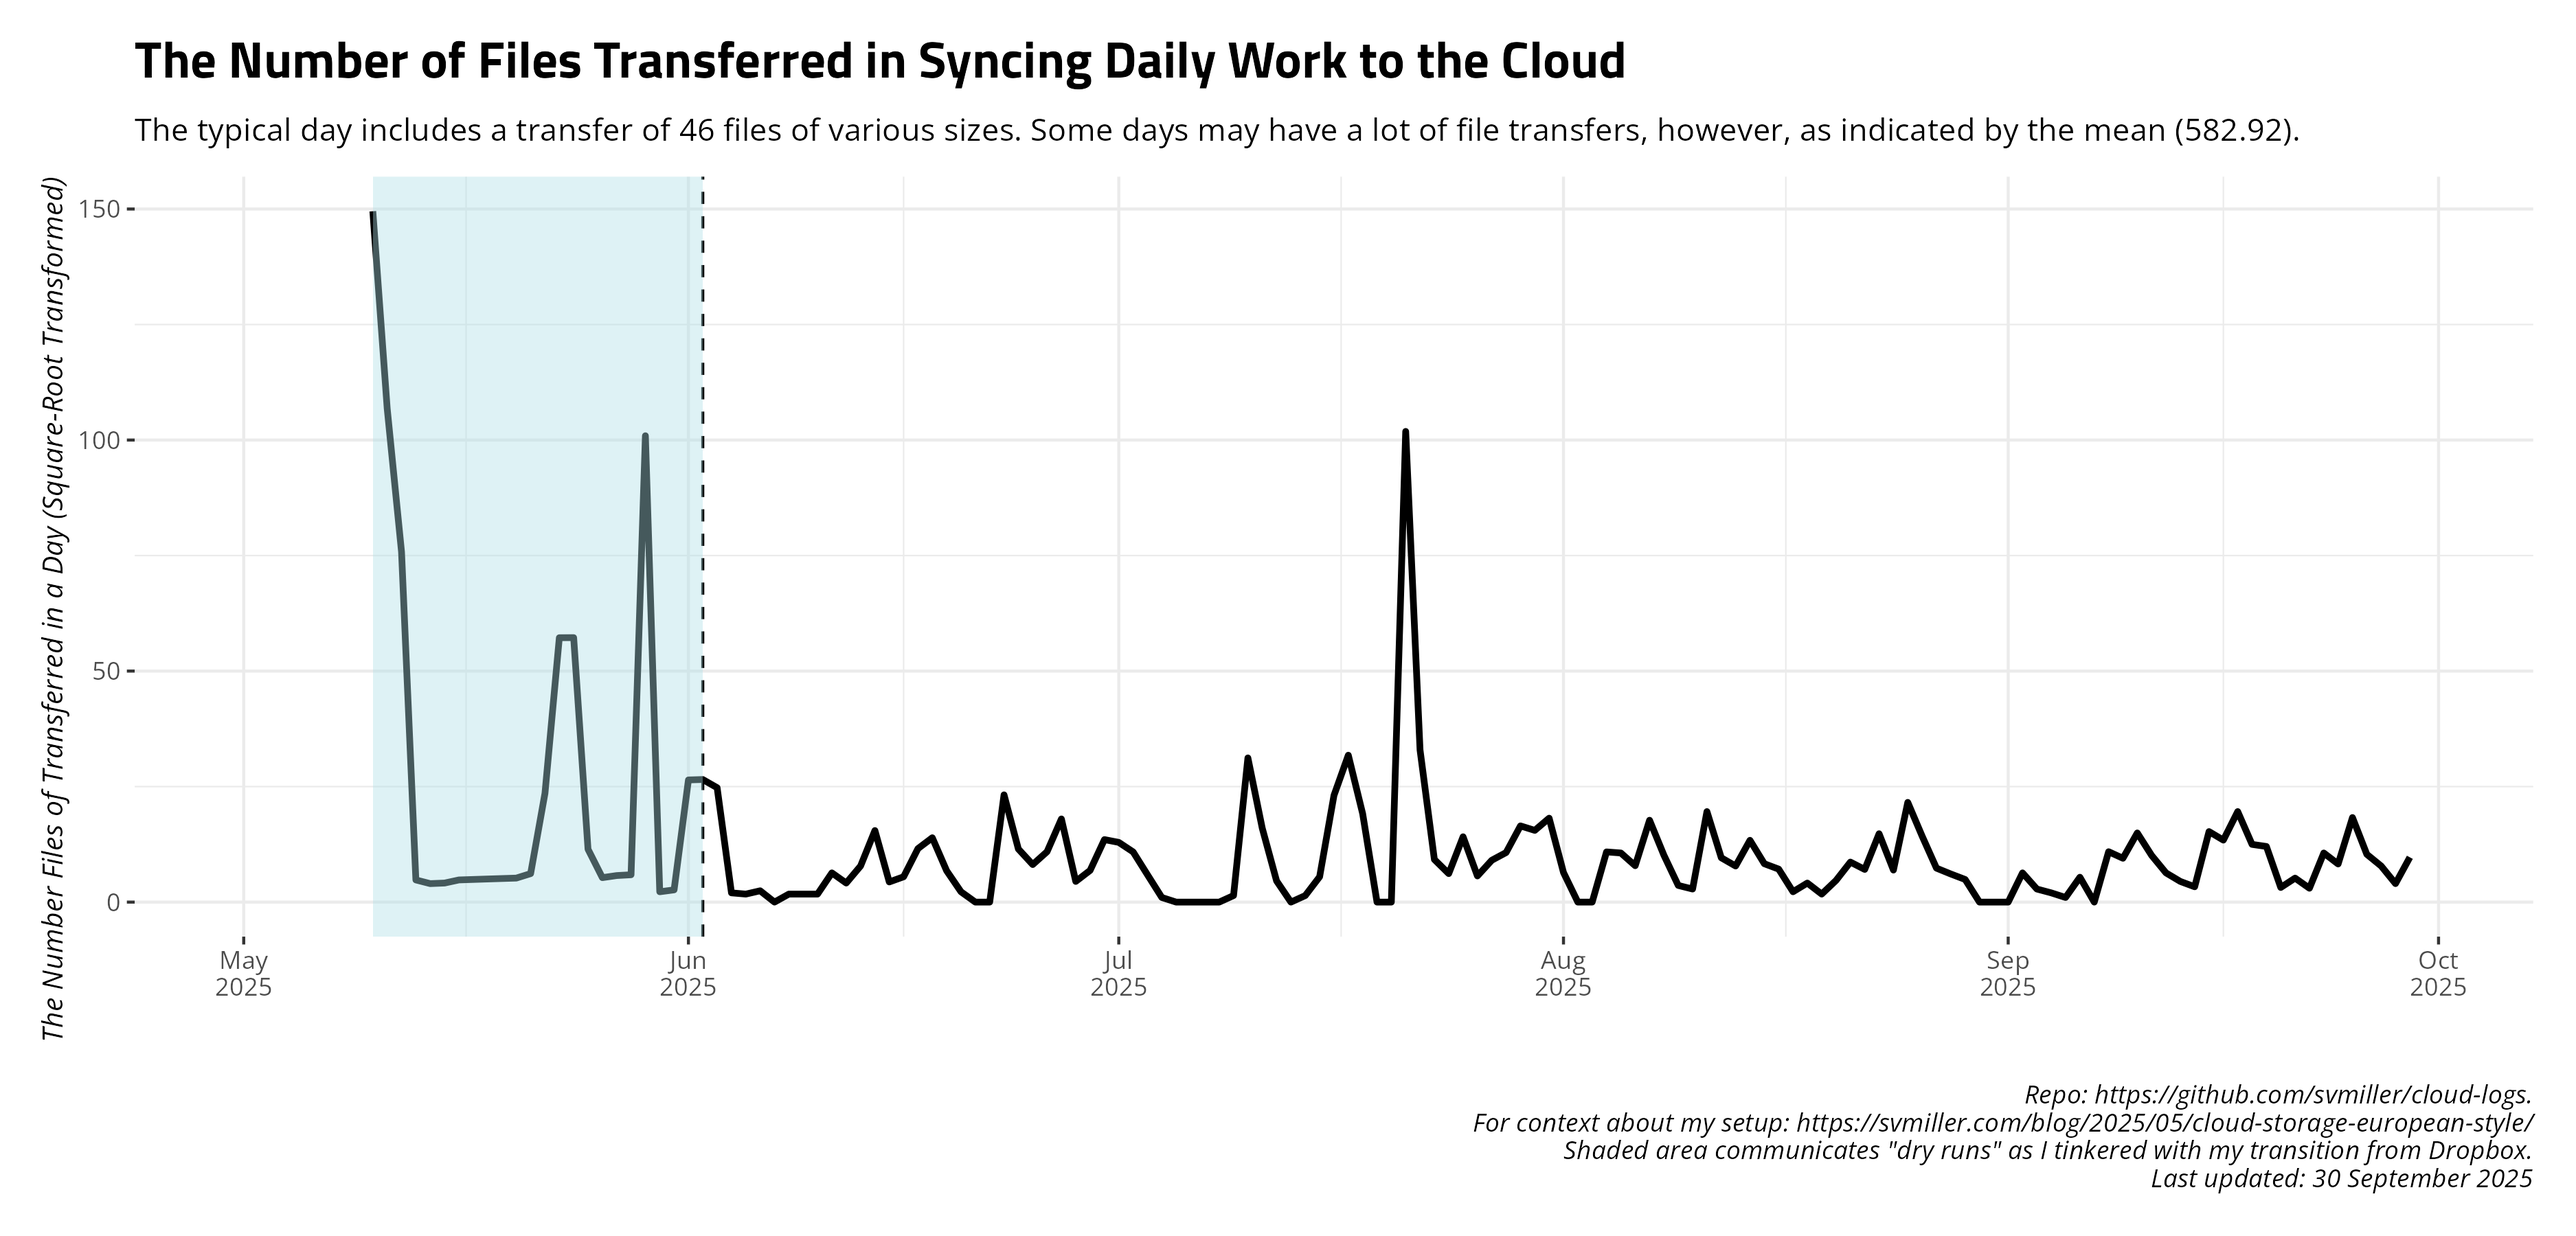
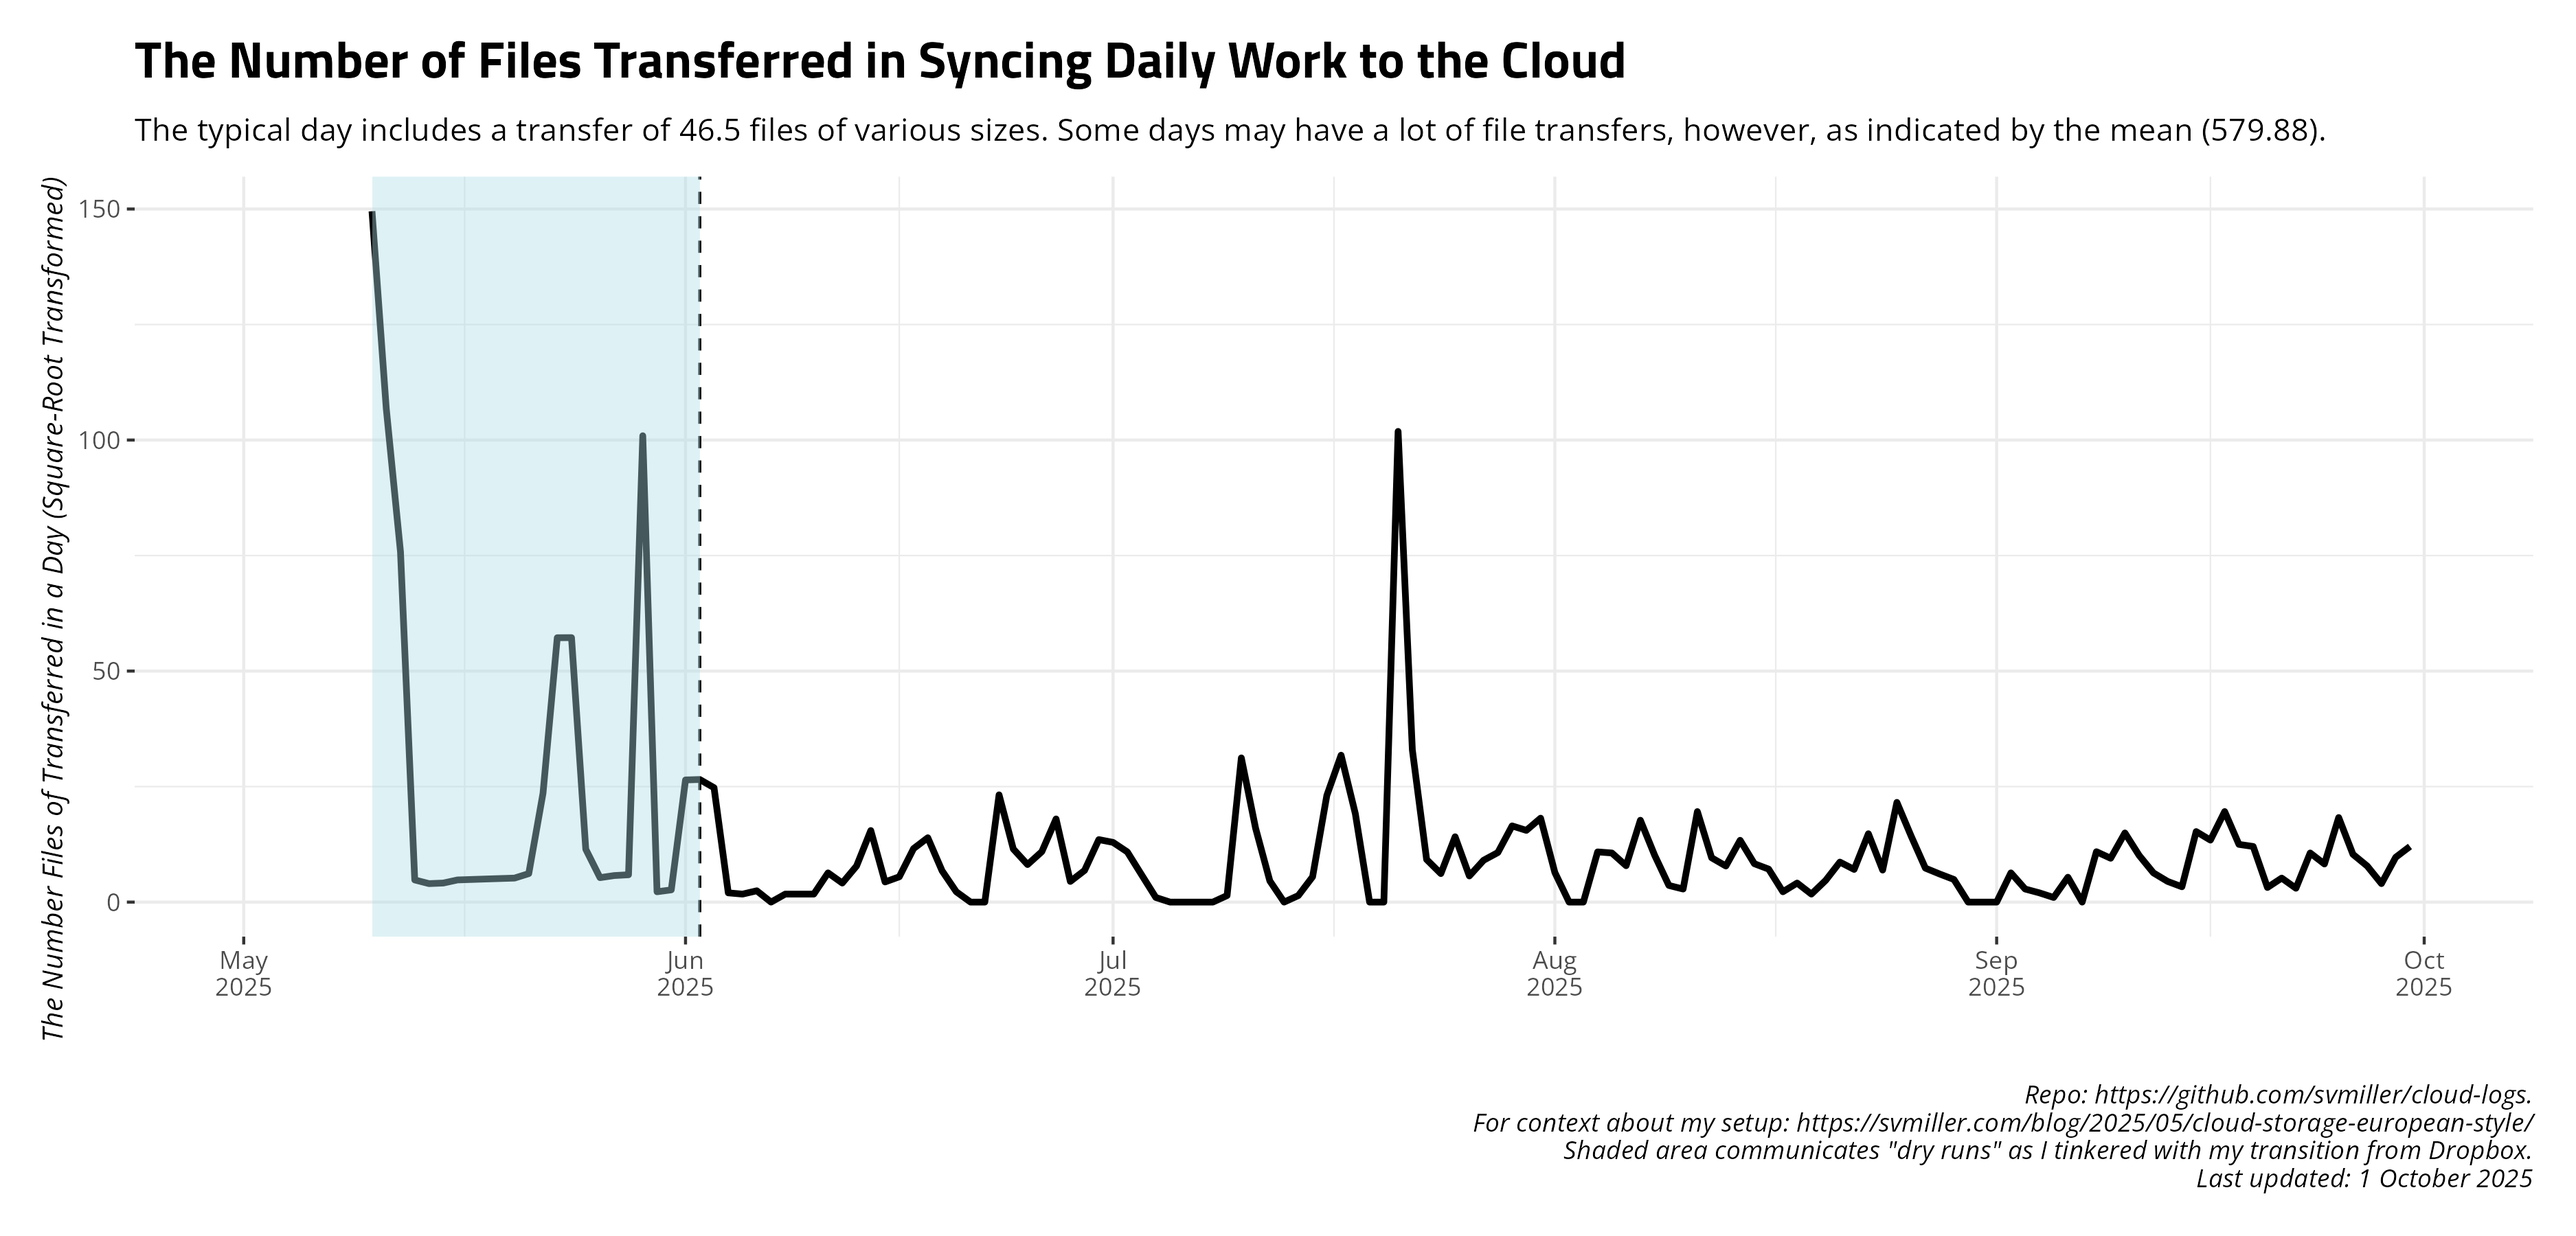
Date: 2025-10-01 09:00:14. Hi mom!

diff --git a/README.md b/README.md
@@ -27,17 +27,17 @@ and uploads to Github.
     #> # A tibble: 14 × 4
     #>    date       ftransfer stransfer   elapsed
     #>    <date>         <dbl> <chr>       <chr>  
-    #>  1 2025-09-16       180 17.775 MiB  4m38.3s
-    #>  2 2025-09-17       384 10.375 MiB  4m40.4s
-    #>  3 2025-09-18       156 2.882 MiB   4m45.7s
-    #>  4 2025-09-19       145 121.392 MiB 4m37.2s
-    #>  5 2025-09-20        10 13.771 KiB  4m44.8s
-    #>  6 2025-09-21        27 314.652 KiB 5m1.5s 
-    #>  7 2025-09-22         9 8.336 MiB   5m26.1s
-    #>  8 2025-09-23       113 1.845 MiB   4m10.1s
-    #>  9 2025-09-24        68 3.056 MiB   5m9.6s 
-    #> 10 2025-09-25       335 16.829 MiB  5m20.3s
-    #> 11 2025-09-26       107 2.871 MiB   5m2.8s 
-    #> 12 2025-09-27        61 1.133 MiB   5m5.0s 
-    #> 13 2025-09-28        16 83.616 MiB  3m51.3s
-    #> 14 2025-09-29        94 5.148 MiB   5m10.7s
+    #>  1 2025-09-17       384 10.375 MiB  4m40.4s
+    #>  2 2025-09-18       156 2.882 MiB   4m45.7s
+    #>  3 2025-09-19       145 121.392 MiB 4m37.2s
+    #>  4 2025-09-20        10 13.771 KiB  4m44.8s
+    #>  5 2025-09-21        27 314.652 KiB 5m1.5s 
+    #>  6 2025-09-22         9 8.336 MiB   5m26.1s
+    #>  7 2025-09-23       113 1.845 MiB   4m10.1s
+    #>  8 2025-09-24        68 3.056 MiB   5m9.6s 
+    #>  9 2025-09-25       335 16.829 MiB  5m20.3s
+    #> 10 2025-09-26       107 2.871 MiB   5m2.8s 
+    #> 11 2025-09-27        61 1.133 MiB   5m5.0s 
+    #> 12 2025-09-28        16 83.616 MiB  3m51.3s
+    #> 13 2025-09-29        94 5.148 MiB   5m10.7s
+    #> 14 2025-09-30       145 7.854 MiB   5m18.4s
